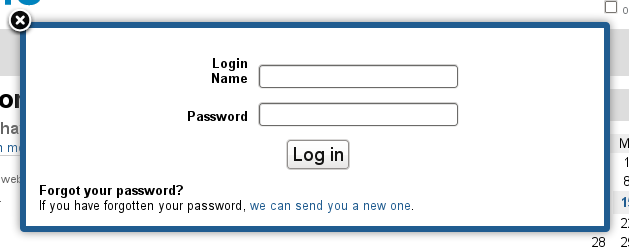
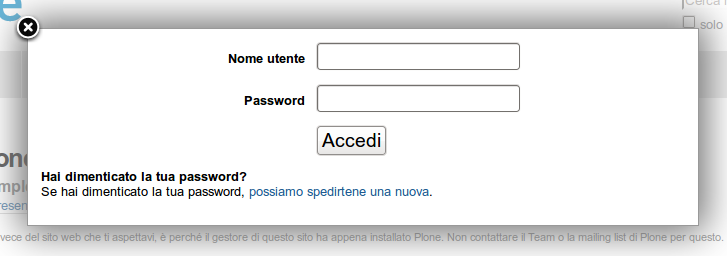
Ri-creati alcuni screenshot in italiano

Changed region(s): [[0.0, 0.0, 1.0, 1.0], [0.2719, 0.1667, 0.725, 0.6944], [0.9968, 0.9444, 1.0, 1.0]]

diff --git a/source/_static/plone.css b/source/_static/plone.css
@@ -86,7 +86,7 @@ a:visited:hover {
     background: #fefabc;
     position: fixed;
     bottom: 1em;
-    left: 1em;
+    left: 0px;
     font-size: 60%;
     text-align: left;
     z-index: 2;

diff --git a/source/introduction/user-accounts-and-roles.rst b/source/introduction/user-accounts-and-roles.rst
@@ -38,12 +38,13 @@ La navigazione anonima identifica la normale esperienza di un utente che
 naviga un sito web. Si digita l'indirizzo web di un sito nel proprio browser
 e si visualizza la pagina, si guardano video e immagini, ma non è necessario
 autenticarsi. Ecco perchè questa viene chiamata navigazione anonima: chiunque
-è anonimo prima dell'autenticazione. Da notare che la presenza del link *Log in*
-(n.d.t "Accedi" in italiano) nel angolo in alto a destra dell'immagine qui
-sotto. Se c'è un link "Log in" sulla pagina, significa che non hai
-effettuato l'accesso e stai visitando il sito come utente anonimo:
+è anonimo prima dell'autenticazione. Da notare che la presenza del link
+*Fatti riconoscere* (n.d.t "Log in" in Inglese) nel angolo in alto a destra
+dell'immagine qui sotto. Se c'è un link "Fatti riconoscere" sulla pagina,
+significa che non hai effettuato l'accesso e stai visitando il sito come
+utente anonimo:
 
-.. figure:: ../_static/plonemain3.0anon.png
+.. figure:: ../_static/plone_main_anon.png
    :align: center
    :alt: 
 
@@ -57,17 +58,17 @@ permette di vedere le informazioni del vostro account, di riempire dei form,
 di trasferire dei fondi e altri tipi di operazioni, ma tutto questo solo dopo
 aver effettuato l'accesso. Un sito Plone non è molto differente, ad eccezione
 del fatto che si possono fare cose più sofisticate. Dai un'occhiata all'immagine
-qui sotto, catturata dopo che un utente "John Smith" ha effettuato l'accesso.
+qui sotto, catturata dopo che un utente "Mario Rossi" ha effettuato l'accesso.
 Vicino all'angolo in alto a destra, puoi vedere il link con il nome di 
-John Smith e un link di uscita. Un'altra differenza importante che si nota
+Mario Rossi e un link di uscita. Un'altra differenza importante che si nota
 quando si è autenticati è che nell'area principale al centro c'è una barra
 verde con dei tab (o linguette). Questa specie di striscia di testa è presente
 quando un utente ha i permessi per modificare quest'area. I tab nella striscia
 verde potrebbero variare, ma dovrebbe sempre avere questo aspetto e questo
-caratteristico colore verde. Nella seguente immagine, l'utente John Smith si è
+caratteristico colore verde. Nella seguente immagine, l'utente Mario Rossi si è
 autenticato in un nuovo sito Plone:
 
-.. figure:: ../_static/plonemain3.0loggedin.png
+.. figure:: ../_static/plone_main_loggedin.png
    :align: center
    :alt: 
 

diff --git a/source/introduction/setting-your-preferences.rst b/source/introduction/setting-your-preferences.rst
@@ -15,7 +15,7 @@ il link *Dashboard* per entrare nella tua area personale:
 
 Vedrai la **dashboard** (o scrivania personale):
 
-.. figure:: ../_static/dashboardjohnsmith.png
+.. figure:: ../_static/dashboard.png
    :align: center
    :alt: 
 
